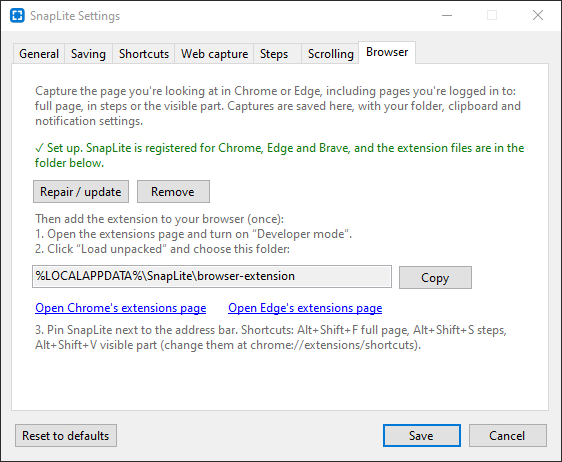
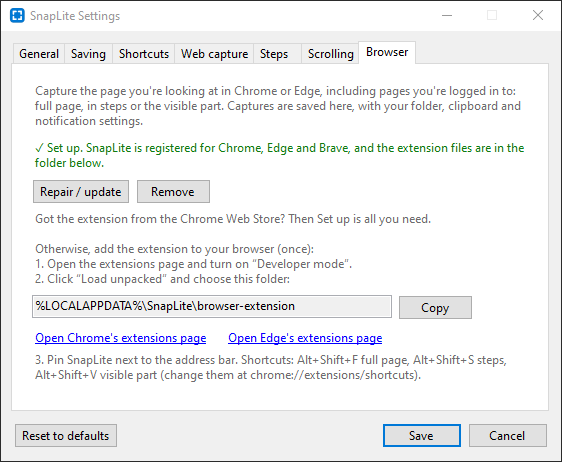
Prepare the Chrome Web Store / Edge Add-ons listing
- publish.ps1 builds the store upload package (no developer key, forward-slash
  zip paths) via the new --export-extension switch.
- SnapLite can trust store-assigned extension IDs (BrowserSetup.StoreExtensionIds);
  installed copies refresh the native host manifest when the list changes.
- docs/store: submission checklist, listing texts, single purpose and
  permission justifications, 1280x800 screenshots, promo tile and store icon
  (make-store-assets.ps1 regenerates them).
- docs/privacy.md: privacy policy.
- Extension: short description fits the store limit; the popup links to the
  app when it isn't connected. Settings > Browser mentions the store route.

Changed region(s): [[0.0605, 0.4545, 0.9075, 0.8485]]

diff --git a/extension/popup.js b/extension/popup.js
@@ -39,7 +39,12 @@ const $ = (id) => document.getElementById(id);
       (s.running ? 'Captures are saved to your SnapLite folder.' : 'SnapLite will start when you capture.');
   } else {
     app.innerHTML = '<b class="warn">○ SnapLite app not connected</b><br>' +
-      'Captures are downloaded instead. To connect: SnapLite → Settings → Browser → Set up.';
+      'Captures are downloaded instead. To connect: SnapLite → Settings → Browser → Set up. ' +
+      '<a href="#" id="getApp">Get the SnapLite app</a>';
+    $('getApp').addEventListener('click', (e) => {
+      e.preventDefault();
+      chrome.tabs.create({ url: 'https://github.com/claeslanng/SnapLite#readme' });
+    });
     $('useApp').closest('label').title = s?.error || '';
   }
 })();

diff --git a/extension/popup.html b/extension/popup.html
@@ -35,6 +35,7 @@
   .status { margin-top: 12px; padding-top: 10px; border-top: 1px solid var(--line); color: var(--sub); font-size: 12px; }
   .status b { font-weight: 600; }
   .ok { color: var(--ok); } .warn { color: var(--warn); } .bad { color: var(--bad); }
+  a { color: var(--accent); }
   #last:empty { display: none; }
   #last { margin-top: 6px; }
 </style>

diff --git a/src/SnapLite/Bridge/BrowserSetup.cs b/src/SnapLite/Bridge/BrowserSetup.cs
@@ -19,6 +19,15 @@ internal static class BrowserSetup
     /// <summary>Fixed by the public key in extension/manifest.json ("key"); a unit test checks they match.</summary>
     public const string ExtensionId = "gfgeiefplicdmofnbiinlhlknjdcnkpl";
 
+    /// <summary>
+    /// IDs the Chrome Web Store / Edge Add-ons gave the published extension (stores assign their own).
+    /// Add each one here when it's known; installed copies pick it up on their next start.
+    /// </summary>
+    public static readonly string[] StoreExtensionIds = [];
+
+    /// <summary>Every extension allowed to start SnapLite as its native messaging host.</summary>
+    public static IEnumerable<string> AllowedExtensionIds => [ExtensionId, .. StoreExtensionIds];
+
     /// <summary>Where each Chromium browser looks for native messaging hosts (HKCU).</summary>
     private static readonly (string Browser, string Key)[] Browsers =
     [
@@ -76,32 +85,46 @@ internal static class BrowserSetup
         try
         {
             if (!IsSetUp) return;
-            string? manifestExe = (string?)JsonNode.Parse(File.ReadAllText(HostManifestPath))?["path"];
-            if (!string.Equals(manifestExe, Environment.ProcessPath, StringComparison.OrdinalIgnoreCase)) WriteHostManifest();
+            // Rewritten when the exe moved or the list of allowed extensions changed (e.g. a store ID was added).
+            if (File.ReadAllText(HostManifestPath) != HostManifestJson()) WriteHostManifest();
             string stamp = Path.Combine(ExtensionFolder, VersionFile);
-            if (!File.Exists(stamp) || File.ReadAllText(stamp) != StampText()) ExtractExtension();
+            if (!File.Exists(stamp) || File.ReadAllText(stamp) != StampText()) ExtractExtension(ExtensionFolder, forStore: false);
         }
         catch (Exception ex) { AppLog.Error("browser setup sync", ex); }
     }
 
+    private static string HostManifestJson() => new JsonObject
+    {
+        ["name"] = HostName,
+        ["description"] = "SnapLite screenshot tool",
+        ["path"] = Environment.ProcessPath,
+        ["type"] = "stdio",
+        ["allowed_origins"] = new JsonArray(AllowedExtensionIds.Select(id => (JsonNode)$"chrome-extension://{id}/").ToArray()),
+    }.ToJsonString(new System.Text.Json.JsonSerializerOptions { WriteIndented = true });
+
     private static void WriteHostManifest()
     {
-        var manifest = new JsonObject
-        {
-            ["name"] = HostName,
-            ["description"] = "SnapLite screenshot tool",
-            ["path"] = Environment.ProcessPath,
-            ["type"] = "stdio",
-            ["allowed_origins"] = new JsonArray($"chrome-extension://{ExtensionId}/"),
-        };
         Directory.CreateDirectory(Path.GetDirectoryName(HostManifestPath)!);
-        File.WriteAllText(HostManifestPath, manifest.ToJsonString(new System.Text.Json.JsonSerializerOptions { WriteIndented = true }));
+        File.WriteAllText(HostManifestPath, HostManifestJson());
+    }
+
+    /// <summary>
+    /// <c>SnapLite.exe --export-extension &lt;folder&gt; [--store]</c>: writes the complete extension to a folder.
+    /// With --store, the developer "key" is left out of manifest.json (the stores assign their own ID).
+    /// </summary>
+    public static int ExportCli(string[] args)
+    {
+        string folder = args.Length > 1 && !args[1].StartsWith("--") ? args[1] : "extension-export";
+        if (Directory.Exists(folder)) Directory.Delete(folder, recursive: true);
+        ExtractExtension(Path.GetFullPath(folder), forStore: args.Contains("--store"));
+        return 0;
     }
 
     /// <summary>Extension files are embedded in the exe; the page scripts and icons are shared with the app.</summary>
-    private static void ExtractExtension()
+    private static void ExtractExtension() => ExtractExtension(ExtensionFolder, forStore: false);
+
+    private static void ExtractExtension(string root, bool forStore)
     {
-        string root = ExtensionFolder;
         Directory.CreateDirectory(root);
         var asm = Assembly.GetExecutingAssembly();
         foreach (string name in asm.GetManifestResourceNames())
@@ -125,7 +148,18 @@ internal static class BrowserSetup
             using var bmp = AppIcons.DrawBitmap(size);
             bmp.Save(Path.Combine(root, "icons", $"icon{size}.png"), ImageFormat.Png);
         }
-        File.WriteAllText(Path.Combine(root, VersionFile), StampText());
+
+        if (forStore)
+        {
+            string manifestPath = Path.Combine(root, "manifest.json");
+            var manifest = (JsonObject)JsonNode.Parse(File.ReadAllText(manifestPath))!;
+            manifest.Remove("key");
+            File.WriteAllText(manifestPath, manifest.ToJsonString(new System.Text.Json.JsonSerializerOptions { WriteIndented = true }));
+        }
+        else
+        {
+            File.WriteAllText(Path.Combine(root, VersionFile), StampText());
+        }
     }
 
     private static string StampText() =>

diff --git a/src/SnapLite/Settings/SettingsForm.cs b/src/SnapLite/Settings/SettingsForm.cs
@@ -263,7 +263,8 @@ internal sealed class SettingsForm : Form
         buttons.Controls.Add(_browserRemove);
         AddRow(g, buttons);
 
-        AddRow(g, Hint("Then add the extension to your browser (once):\n" +
+        AddRow(g, Hint("Got the extension from the Chrome Web Store? Then Set up is all you need.\n\n" +
+                       "Otherwise, add the extension to your browser (once):\n" +
                        "1. Open the extensions page and turn on “Developer mode”.\n" +
                        "2. Click “Load unpacked” and choose this folder:"));
         var copy = new Button { Text = "Copy", AutoSize = true };

diff --git a/src/SnapLite/Program.cs b/src/SnapLite/Program.cs
@@ -34,6 +34,7 @@ internal static class Program
             return DocShots.Run(args);
         }
         if (args.Length > 0 && args[0] == "--write-icon") return DocShots.WriteIcon(args);
+        if (args.Length > 0 && args[0] == "--export-extension") return BrowserSetup.ExportCli(args);
 
         ApplicationConfiguration.Initialize();
 

diff --git a/docs/store/README.md b/docs/store/README.md
@@ -1,0 +1,90 @@
+# Publishing the extension to the Chrome Web Store
+
+Everything to upload and paste is in this folder. The package is built by `publish.ps1`:
+`publish\SnapLite-extension-<version>-store.zip`.
+
+## 1. Developer account (once)
+
+1. Go to <https://chrome.google.com/webstore/devconsole> and sign in with the Google account that
+   should own the listing.
+2. Accept the developer agreement and pay the one-time **US$5** registration fee.
+3. Verify the contact email address (Account tab).
+
+## 2. Upload, then send the item ID back
+
+1. Click **New item** and upload `publish\SnapLite-extension-1.0.0-store.zip`.
+2. The dashboard now shows the item's **ID** (32 letters a–p). **Add it to
+   `BrowserSetup.StoreExtensionIds`** in `src/SnapLite/Bridge/BrowserSetup.cs` and publish a new
+   SnapLite version. Until then, the store version can't talk to the app and falls back to downloads.
+   Installed copies pick up the new ID on their next start.
+
+## 3. Store listing tab
+
+| Field | What to enter |
+|---|---|
+| Description | the text under **Detailed description** below |
+| Category | Productivity → Tools |
+| Language | English |
+| Store icon | `store-icon-128.png` |
+| Screenshots | `screenshot-1-steps.png` … `screenshot-4-settings.png` (1280 × 800) |
+| Small promo tile | `promo-tile-440x280.png` |
+| Homepage URL | `https://github.com/claeslanng/SnapLite` |
+| Support URL | `https://github.com/claeslanng/SnapLite/issues` |
+
+The name ("SnapLite") and the short description come from the package's manifest.
+
+### Detailed description
+
+```
+Full-page and step-by-step screenshots of the page you're on, including pages you're logged in to.
+
+• Full page: scrolls the tab and stitches one tall image, with sticky headers shown once.
+• Page in steps: one numbered image per section, each starting at its heading. Great for tutorials, documentation and support answers.
+• Visible part: just what's on screen.
+• Clean captures: cookie banners, pop-ups and floating chat buttons are hidden while capturing, then the page is put back exactly as it was.
+
+Works on its own: images are saved to your Downloads folder.
+
+Works best with the free SnapLite app for Windows (github.com/claeslanng/SnapLite): captures go straight to your SnapLite folder and clipboard, with a notification to open or copy them, and steps get a steps.md index. The app also captures regions, windows and your whole screen with global shortcuts.
+
+Private by design: the extension only sees the tab you capture, when you click it or press its shortcut. Nothing is uploaded anywhere.
+
+Shortcuts: Alt+Shift+F (full page), Alt+Shift+S (steps), Alt+Shift+V (visible part); change them at chrome://extensions/shortcuts.
+```
+
+## 4. Privacy practices tab
+
+**Single purpose**
+
+```
+Capture screenshots of the current tab (the full page, the page split into steps, or the visible part) and save them on the user's computer, through the SnapLite desktop app when it's installed.
+```
+
+**Permission justifications**
+
+| Permission | Justification to paste |
+|---|---|
+| activeTab | Captures and scripts only the tab the user invokes the extension on (toolbar button or keyboard shortcut). No access to other tabs. |
+| scripting | Injects the extension's own page scripts into that tab to scroll it, temporarily hide cookie banners and floating buttons, and measure where sections start; the page is restored afterwards. |
+| nativeMessaging | Sends the captured image to the SnapLite desktop app on the same computer, which saves it to the user's chosen folder and clipboard. Nothing leaves the computer. |
+| downloads | Saves the captured image to the Downloads folder when the SnapLite desktop app isn't installed. |
+| storage | Remembers the user's options in the popup (such as "hide cookie banners"). |
+| offscreen | Creates a local blob URL so large images can be downloaded (service workers can't create blob URLs). |
+
+**Remote code:** No, I am not using remote code.
+
+**Data usage:** tick none of the data types. Then tick all three certifications: no selling or
+transferring of user data, no use unrelated to the single purpose, and no use for
+creditworthiness or lending.
+
+**Privacy policy URL:** `https://github.com/claeslanng/SnapLite/blob/main/docs/privacy.md`
+
+## 5. Submit
+
+Click **Submit for review**. Reviews usually take a few days; you'll get an email. Visibility can
+be Public or Unlisted (only people with the link).
+
+## Microsoft Edge Add-ons (optional, free)
+
+Same package, same texts: <https://partner.microsoft.com/dashboard/microsoftedge/overview>. Edge
+also assigns its own ID: add that one to `StoreExtensionIds` as well.

diff --git a/docs/privacy.md b/docs/privacy.md
@@ -1,0 +1,35 @@
+# SnapLite privacy policy
+
+_Last updated: 24 November 2026_
+
+SnapLite is a screenshot tool: a Windows app and a browser extension for Chrome, Edge and Brave.
+In short: **SnapLite does not collect, send or sell any data. Your screenshots stay on your computer.**
+
+## The browser extension
+
+- **What it accesses:** only the tab you're looking at, and only when you click the SnapLite button
+  or press one of its shortcuts (the `activeTab` permission). It can't see your other tabs or your
+  browsing history, and it doesn't run in the background on the pages you visit.
+- **What it does with that tab:** it takes screenshots while scrolling, temporarily hides cookie
+  banners and floating buttons, and measures where the page's sections start. Then it puts the page
+  back exactly as it was.
+- **Where the screenshots go:** to the SnapLite app on the same computer, through the browser's
+  native messaging. If the app isn't installed, they go to your Downloads folder. Nothing is sent
+  to any server, not to us and not to anyone else.
+- **What it stores:** your choices in the popup (for example "hide cookie banners"), in the
+  browser's own extension storage on your computer.
+- **No tracking:** no analytics, no advertising, no accounts, no remote code.
+
+## The Windows app
+
+- It saves screenshots to the folder you choose (by default `Pictures\SnapLite`) and can copy them
+  to the clipboard.
+- Its settings are stored in `%APPDATA%\SnapLite`. Logs, kept only when something goes wrong, are
+  stored in `%LOCALAPPDATA%\SnapLite`.
+- The "Full webpage" capture opens the web address you type in a hidden browser on your computer.
+  That page is loaded from the website like any normal visit; SnapLite itself sends nothing anywhere.
+- It doesn't check for updates or contact any server on its own.
+
+## Questions
+
+Open an issue at <https://github.com/claeslanng/SnapLite/issues>.

diff --git a/README.md b/README.md
@@ -155,6 +155,10 @@ sections needs the app.
 The extension only asks for `activeTab`, so it can only see a tab when you click its icon or press
 one of its shortcuts. It has no access to your other tabs or your browsing history.
 
+Everything needed to publish it in the Chrome Web Store or Edge Add-ons (package, listing texts,
+images, checklist) is in [docs/store](docs/store/README.md). `publish.ps1` builds the upload
+package, `publish\SnapLite-extension-<version>-store.zip`.
+
 ## Command line
 
 ```powershell
@@ -178,6 +182,10 @@ node --test tests/extension
 The extension's tests need Node.js; the extension itself is plain JavaScript with no build step.
 
 To regenerate the screenshots in `docs/` after a Release build, run `docs\make-screenshots.ps1`.
+
+## Privacy
+
+SnapLite collects nothing and sends nothing anywhere; see the [privacy policy](docs/privacy.md).
 
 ## License
 
